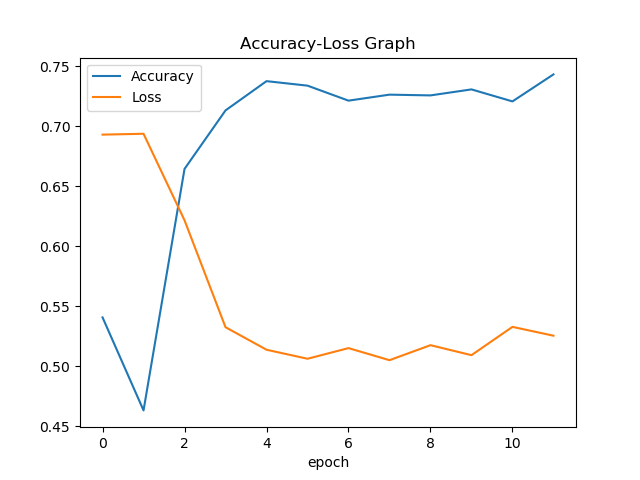
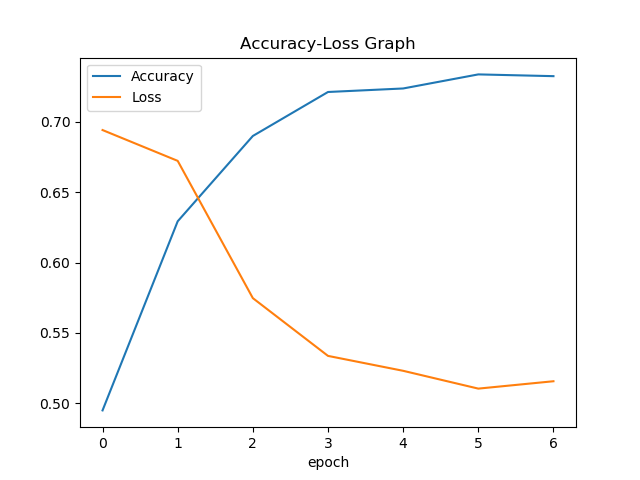
Likely working stack overflow paramerets.

diff --git a/Neural Networks/Tools/Classifier.py b/Neural Networks/Tools/Classifier.py
@@ -100,6 +100,7 @@ class CNN_Classifier:
 
 
     def predict(self, x_train, y_train, x_test, y_test, embeddings, sequence_length, class_count):
+        print("Nm of classes : ", class_count)
         req_type = type(np.array([]))
         assert type(x_train) == req_type and type(x_test) == req_type
         assert type(y_train) == req_type and type(y_test) == req_type
@@ -113,7 +114,7 @@ class CNN_Classifier:
         model_input = Input(shape=input_shape)
         print("Input tensor shape: ", int_shape(model_input))
         # model_embedding = Embedding(embeddings.shape[0], embeddings.shape[1], input_length=sequence_length, name="embedding")(model_input)
-        model_embedding = Embedding(embeddings.shape[0], embeddings.shape[1], weights=[embeddings], name="embedding")(model_input)
+        model_embedding = Embedding(embeddings.shape[0], embeddings.shape[1], weights=[embeddings], name="embedding", trainable=True)(model_input)
         print("Embeddings tensor shape: ", int_shape(model_embedding))
         # model_embedding = Dropout(0.4)(model_embedding)
         conv_blocks = []
@@ -124,25 +125,20 @@ class CNN_Classifier:
                                  activation="relu",
                                  use_bias=False,
                                  strides=1)(model_embedding)
-            conv = MaxPooling1D(pool_size=self.pool_windows[i])(conv)
+            # conv = MaxPooling1D(pool_size=self.pool_windows[i])(conv)
+            conv = MaxPooling1D(pool_size=sequence_length-self.filter_sizes[i])(conv)
             conv = Flatten()(conv)
-            # conv = Reshape((-1,))(conv)
             conv_blocks.append(conv)
         model_conv = Concatenate()(conv_blocks) if len(conv_blocks) > 1 else conv_blocks[0]
 
         model_hidden = Dropout(0.5)(model_conv)
-        model_hidden = Dense(int(int_shape(model_hidden)[-1]*2), activation="relu")(model_hidden)
-        model_hidden = Dropout(0.5)(model_hidden)
-        model_hidden = Dense(1024, activation="relu")(model_hidden)
-        model_hidden = Dropout(0.6)(model_hidden)
-        model_hidden = Dense(64, activation="relu")(model_hidden)
         model_output = Dense(class_count, activation="softmax")(model_hidden)
-        # model_output = Dense(1, activation="sigmoid")(model_hidden)
 
         model = Model(model_input, model_output)
-        optimizer = Adam(lr=self.learning_rate)
-        # optimizer = Adagrad(lr=self.learning_rate)
-        model.compile(loss="categorical_crossentropy", optimizer=optimizer, metrics=["accuracy"])
+        # optimizer = Adam(lr=self.learning_rate, beta_1=0.9, beta_2=0.999, epsilon=1e-08, decay=0.0)
+        optimizer = Adagrad(lr=self.learning_rate)
+        model.compile(optimizer=optimizer, loss="categorical_crossentropy", metrics=["accuracy"])
+        # model.compile(optimizer=optimizer, loss='binary_crossentropy', metrics=['accuracy'])
         # model.compile(loss="binary_crossentropy", optimizer=optimizer, metrics=["accuracy"])
 
         # model.fit(x_train, y_train, batch_size=self.batch_size, epochs=self.num_epochs,

diff --git a/Neural Networks/NN_StackOverflow.py b/Neural Networks/NN_StackOverflow.py
@@ -45,7 +45,7 @@ labels = lb.fit_transform(labels)
 print("Label dimention : ", labels.shape)
 
 from Tools.Feature_Extraction import chisqure
-selected_terms = chisqure(data, labels, feature_count = 0)
+selected_terms = chisqure(data, labels, feature_count = 1500)
 
 ## Process Dataset ##
 data_vectors, embeddings, maxSize, embedding_vocab = get_Embeddings(data, selected_terms)
@@ -61,7 +61,7 @@ from sklearn.model_selection import KFold
 kf = KFold(n_splits=5)
 from Tools.Classifier import CNN_Classifier, RNN_Classifier
 
-classifier = CNN_Classifier(filter_sizes=[2,5], filter_counts=[300,150], pool_windows=[4,2], learning_rate=0.001, batch_size=64, num_epochs=30)
+classifier = CNN_Classifier(filter_sizes=[5,7,9], filter_counts=[500,350,250], pool_windows=[6,4,3], learning_rate=0.001, batch_size=64, num_epochs=500)
 # classifier = RNN_Classifier(output_size=256, learning_rate=0.001, batch_size=7, num_epochs=100)
 
 for train_indices, test_indices in kf.split(data_vectors):

diff --git a/Neural Networks/NN_Twitter.py b/Neural Networks/NN_Twitter.py
@@ -65,11 +65,11 @@ totprec = 0.0
 totF1 = 0.0
 
 from sklearn.model_selection import KFold
-kf = KFold(n_splits=5)
+kf = KFold(n_splits=10)
 from Tools.Classifier import CNN_Classifier, RNN_Classifier, BDRNN_Classifier
 
-# classifier = CNN_Classifier(filter_sizes=[3,7], filter_counts=[400, 250], pool_windows=[6,3], learning_rate=0.001, batch_size=64, num_epochs=15) #Best epoch : 10
-classifier = RNN_Classifier(output_size=256, learning_rate=0.001, batch_size=64, num_epochs=4)
+classifier = CNN_Classifier(filter_sizes=[3,5,7], filter_counts=[500,400,250], pool_windows=[6,5,3], learning_rate=0.0001, batch_size=32, num_epochs=12)
+# classifier = RNN_Classifier(output_size=256, learning_rate=0.001, batch_size=64, num_epochs=7)
 # classifier = BDRNN_Classifier(output_size=256, learning_rate=0.001, batch_size=256, num_epochs=15)
 
 for train_indices, test_indices in kf.split(data_vectors):
